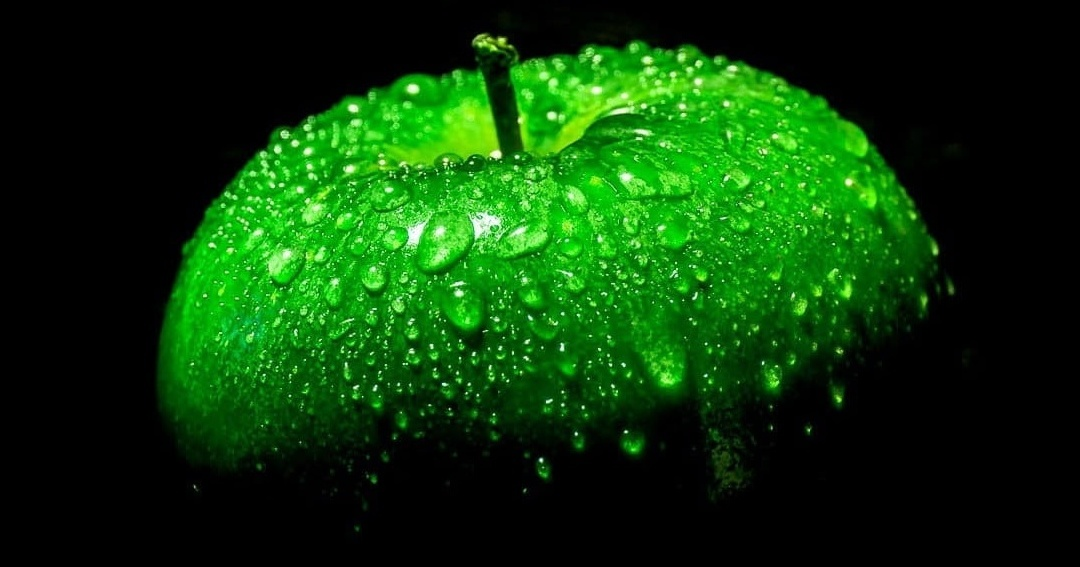
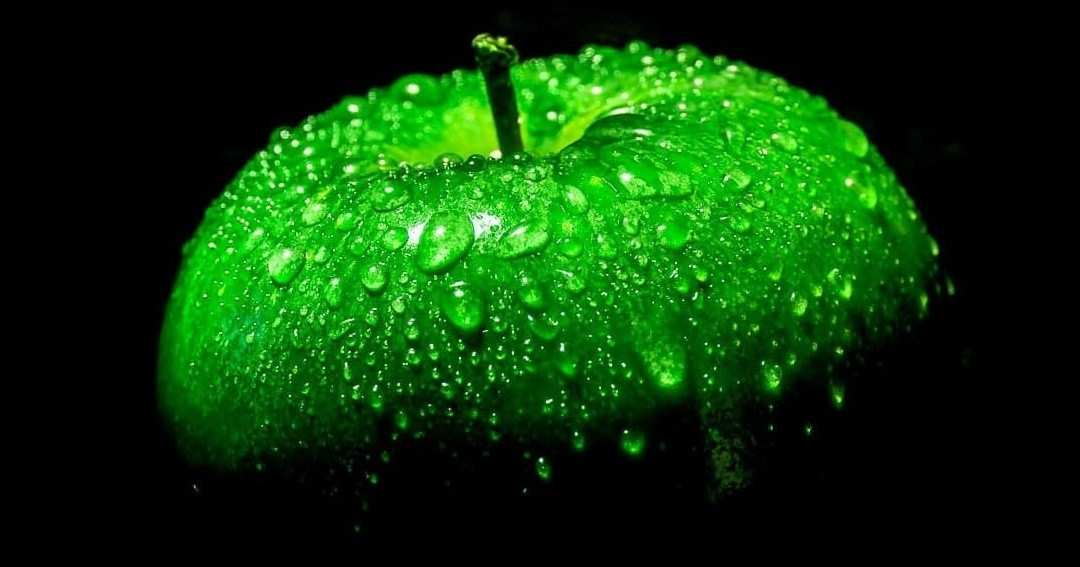
Reduce image sizes, Add third project, Remove unused assets

Changed region(s): [[0.4583, 0.3898, 0.4889, 0.4198], [0.4278, 0.3598, 0.4583, 0.3898], [0.3667, 0.3598, 0.3972, 0.3898]]

diff --git a/index.html b/index.html
@@ -801,7 +801,7 @@
                     <ion-icon name="eye-outline"></ion-icon>
                   </div>
 
-                  <img src="./assets/images/project-1-Admin-Dashboard-Proton.png" alt="proton" loading="lazy">
+                  <img src="./assets/images/project-1-Admin-Dashboard-Proton.jpeg" alt="proton" loading="lazy">
                 </figure>
 
                 <h3 class="project-title">Proton</h3>
@@ -823,7 +823,7 @@
                     <ion-icon name="eye-outline"></ion-icon>
                   </div>
 
-                  <img src="./assets/images/project-2-Amharic-OCR2.png" alt="ocr" loading="lazy">
+                  <img src="./assets/images/project-2-Amharic-OCR.jpeg" alt="ocr" loading="lazy">
                 </figure>
 
                 <h3 class="project-title">Amharic OCR</h3>
@@ -837,23 +837,23 @@
               </a>
             </li>
 
-<!--            <li class="project-item  active" data-filter-item data-category="web design">-->
-<!--              <a href="#">-->
+            <li class="project-item  active" data-filter-item data-category="web development">
+              <a href="https://github.com/Yakin-Tewodros/Ethiopia-Travel">
 
-<!--                <figure class="project-img">-->
-<!--                  <div class="project-item-icon-box">-->
-<!--                    <ion-icon name="eye-outline"></ion-icon>-->
-<!--                  </div>-->
+                <figure class="project-img">
+                  <div class="project-item-icon-box">
+                    <ion-icon name="eye-outline"></ion-icon>
+                  </div>
 
-<!--                  <img src="./assets/images/project-3.jpg" alt="fundo" loading="lazy">-->
-<!--                </figure>-->
+                  <img src="./assets/images/project-3-Discover-Ethiopia.jpeg" alt="fundo" loading="lazy">
+                </figure>
 
-<!--                <h3 class="project-title">Fundo</h3>-->
+                <h3 class="project-title">Discover Ethiopia</h3>
 
-<!--                <p class="project-category">Web design</p>-->
+                <p class="project-category">Web design</p>
 
-<!--              </a>-->
-<!--            </li>-->
+              </a>
+            </li>
 
 <!--            <li class="project-item  active" data-filter-item data-category="applications">-->
 <!--              <a href="#">-->